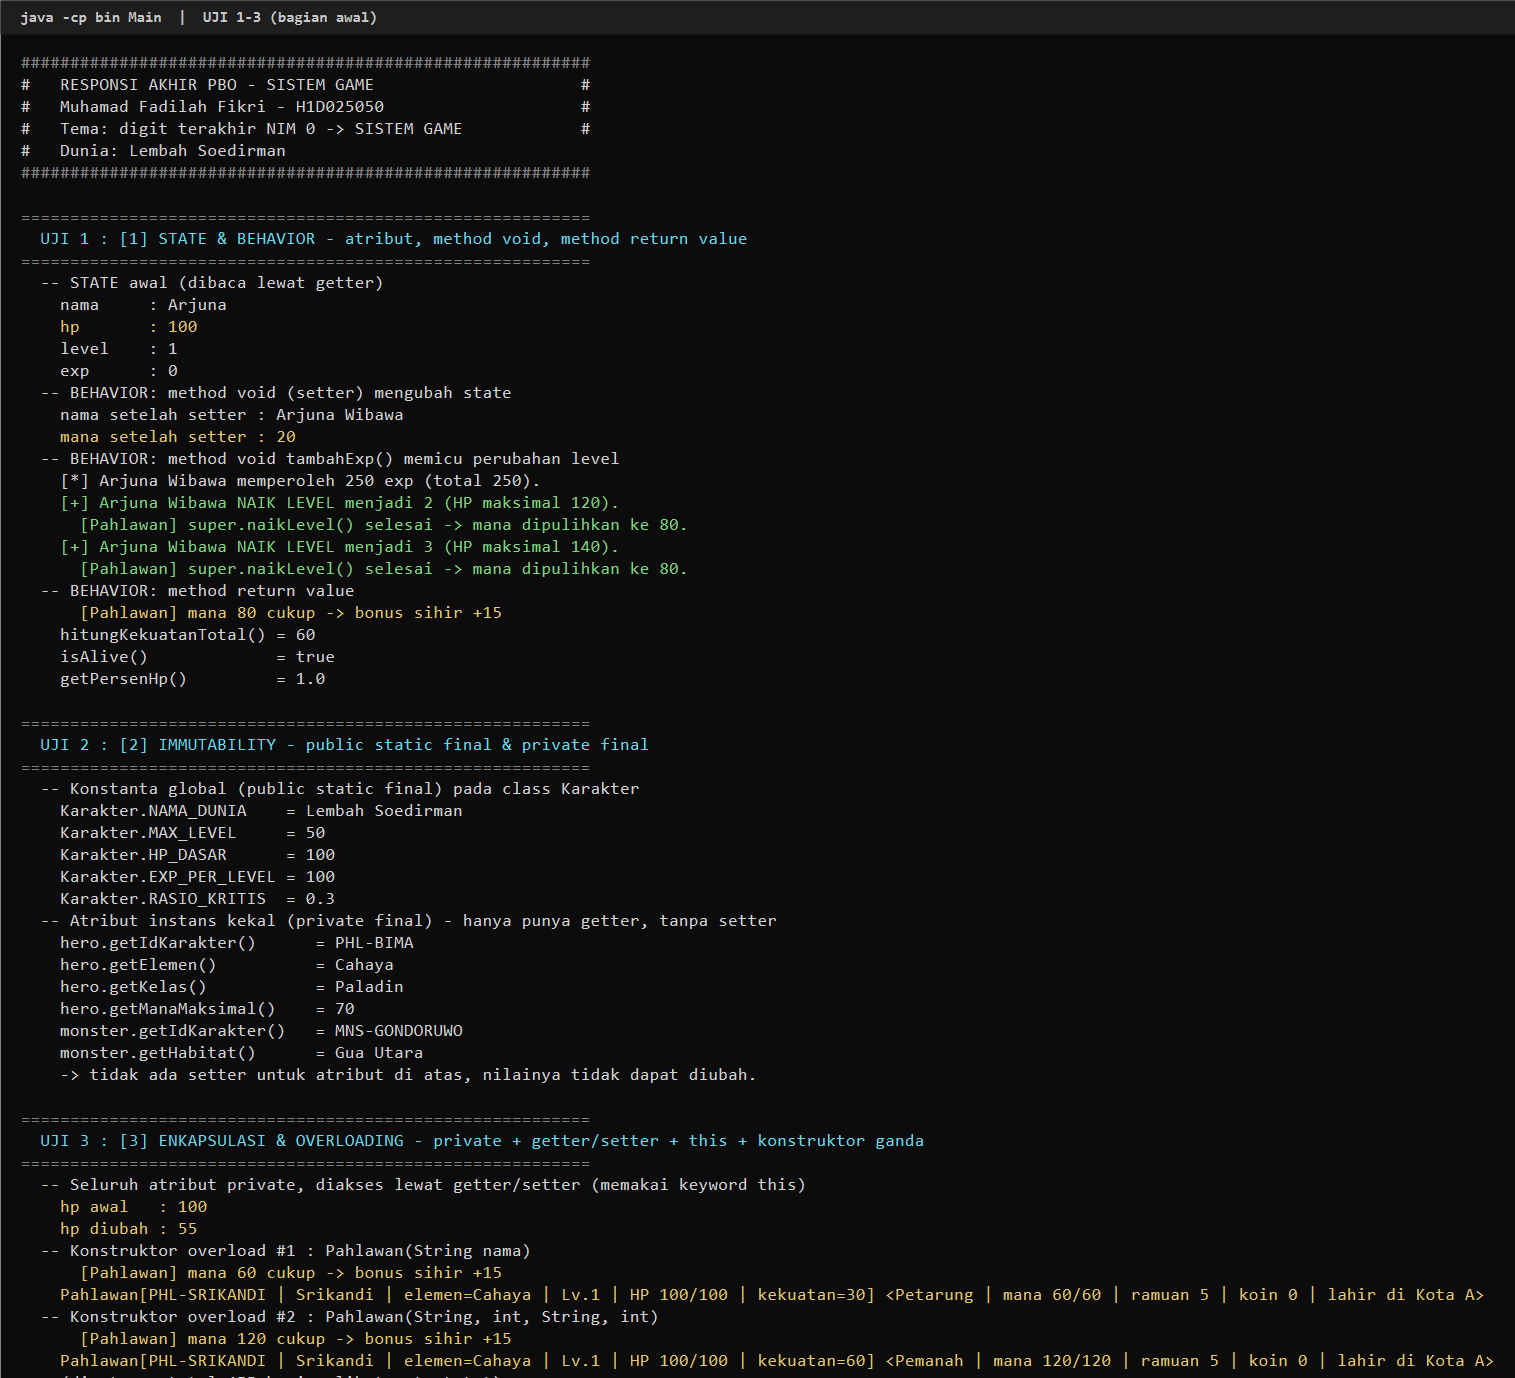
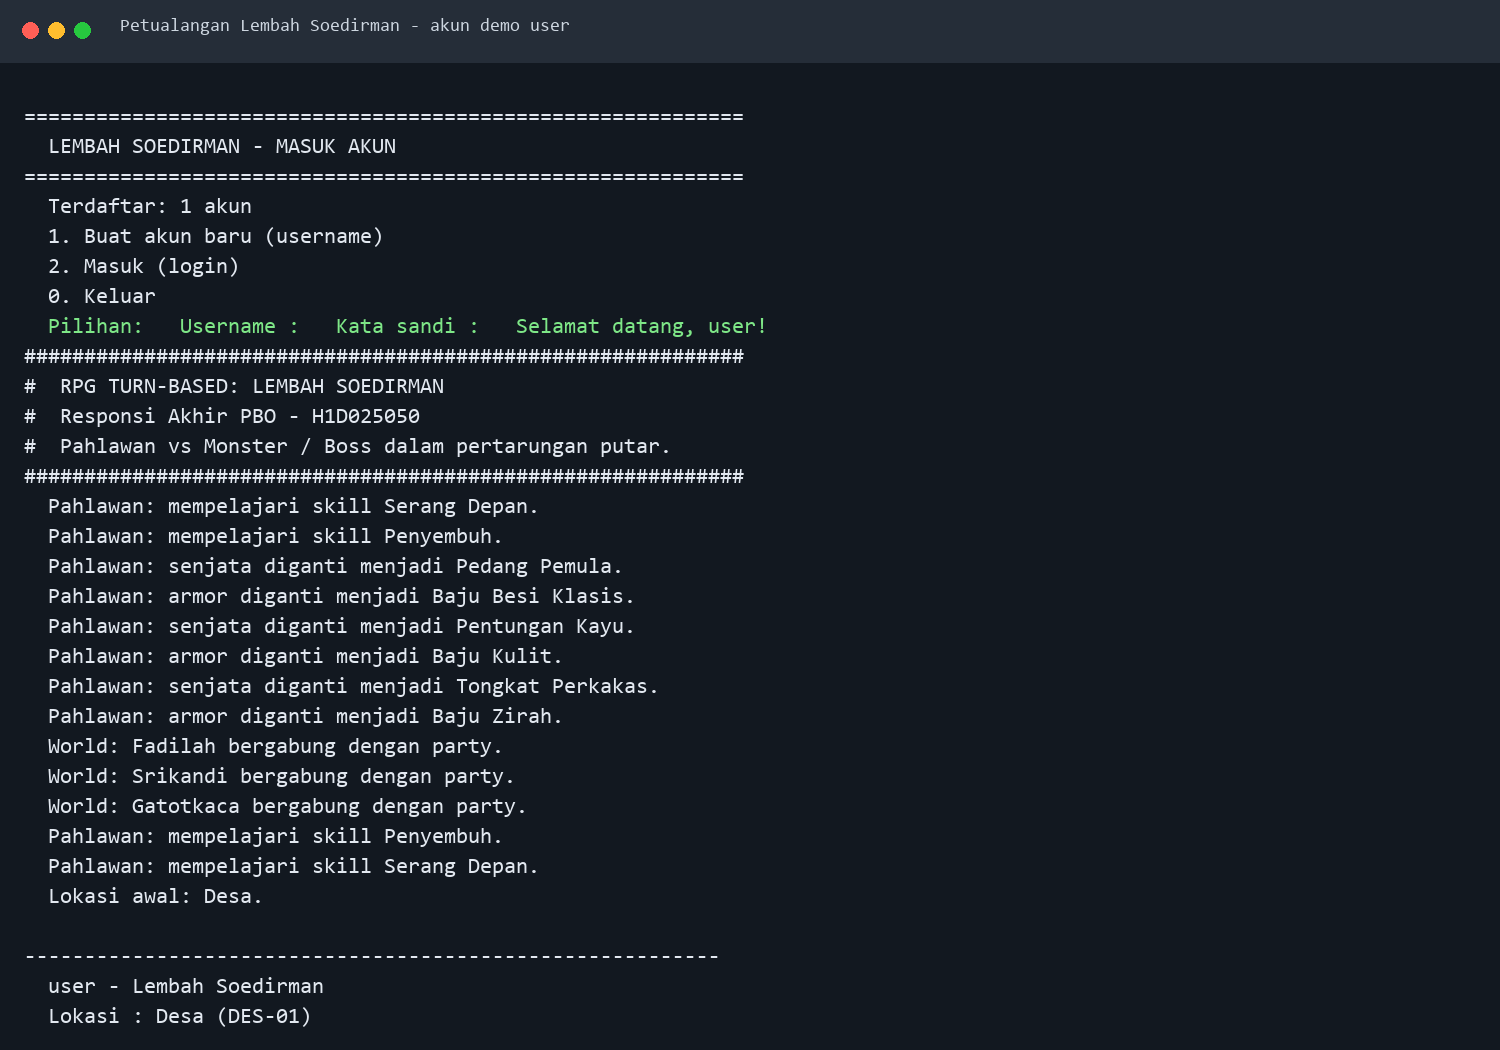
Tambahkan akun demo user dan perbarui screenshot game

diff --git a/src/Akun.java b/src/Akun.java
@@ -12,6 +12,12 @@ public class Akun {
     /* penyimpanan seluruh akun terdaftar, dibagikan lintas objek */
     private static final Map<String, Akun> DAFTAR_AKUN = new HashMap<>();
 
+    /* akun demo untuk pemeriksaan asprak: user / pass */
+    static {
+        Akun akunDemo = new Akun("user", "pass");
+        DAFTAR_AKUN.put(akunDemo.username, akunDemo);
+    }
+
     /* username bersifat kekal, tidak bisa diubah setelah akun dibuat */
     private final String username;
 

diff --git a/README.md b/README.md
@@ -66,6 +66,19 @@ Mode pembuktian berjalan sendiri tanpa input. Kalau tidak ada input yang masuk,
 aksi battle otomatis memilih Serang, jadi outputnya selalu sama dan bisa
 diregenerasi kapan saja.
 
+### Akun demo untuk asprak
+
+Akun demo sudah tersedia otomatis setiap kali program dijalankan:
+
+| Username | Password |
+|---|---|
+| `user` | `pass` |
+
+Jalankan `java -cp bin Main game`, pilih **2. Masuk (login)**, lalu masukkan
+`user` sebagai username dan `pass` sebagai kata sandi. Akun ini hanya akun demo
+lokal di memori; akun baru yang dibuat selama program berjalan juga tidak
+disimpan setelah program ditutup.
+
 Kalau mau menyimpan output ke berkas:
 
 ```bash
@@ -126,13 +139,15 @@ tidak hilang:
 
 ![Screenshot terbaru awal](screenshot-output-baru-1.png)
 
-Screenshot terbaru, UJI 1 sampai 3.
+Screenshot terbaru: login akun demo `user`, lalu tampilan awal game setelah berhasil masuk.
 
 ![Screenshot terbaru akhir](screenshot-output-baru-2.png)
 
-Screenshot terbaru, UJI 10, 11, dan ringkasan.
+Screenshot terbaru: menu **Info akun / Logout** yang menampilkan username `user`,
+status login, jumlah akun terdaftar, dan konfirmasi logout.
 
-Semua screenshot dihasilkan dari `output.txt` yang diregenerasi lewat
+Semua screenshot terbaru dihasilkan dari sesi game teruji dengan akun demo
+`user` / `pass`. Output pembuktian tetap diregenerasi lewat:
 `java -cp bin Main > output.txt 2>&1`.
 
 ---
